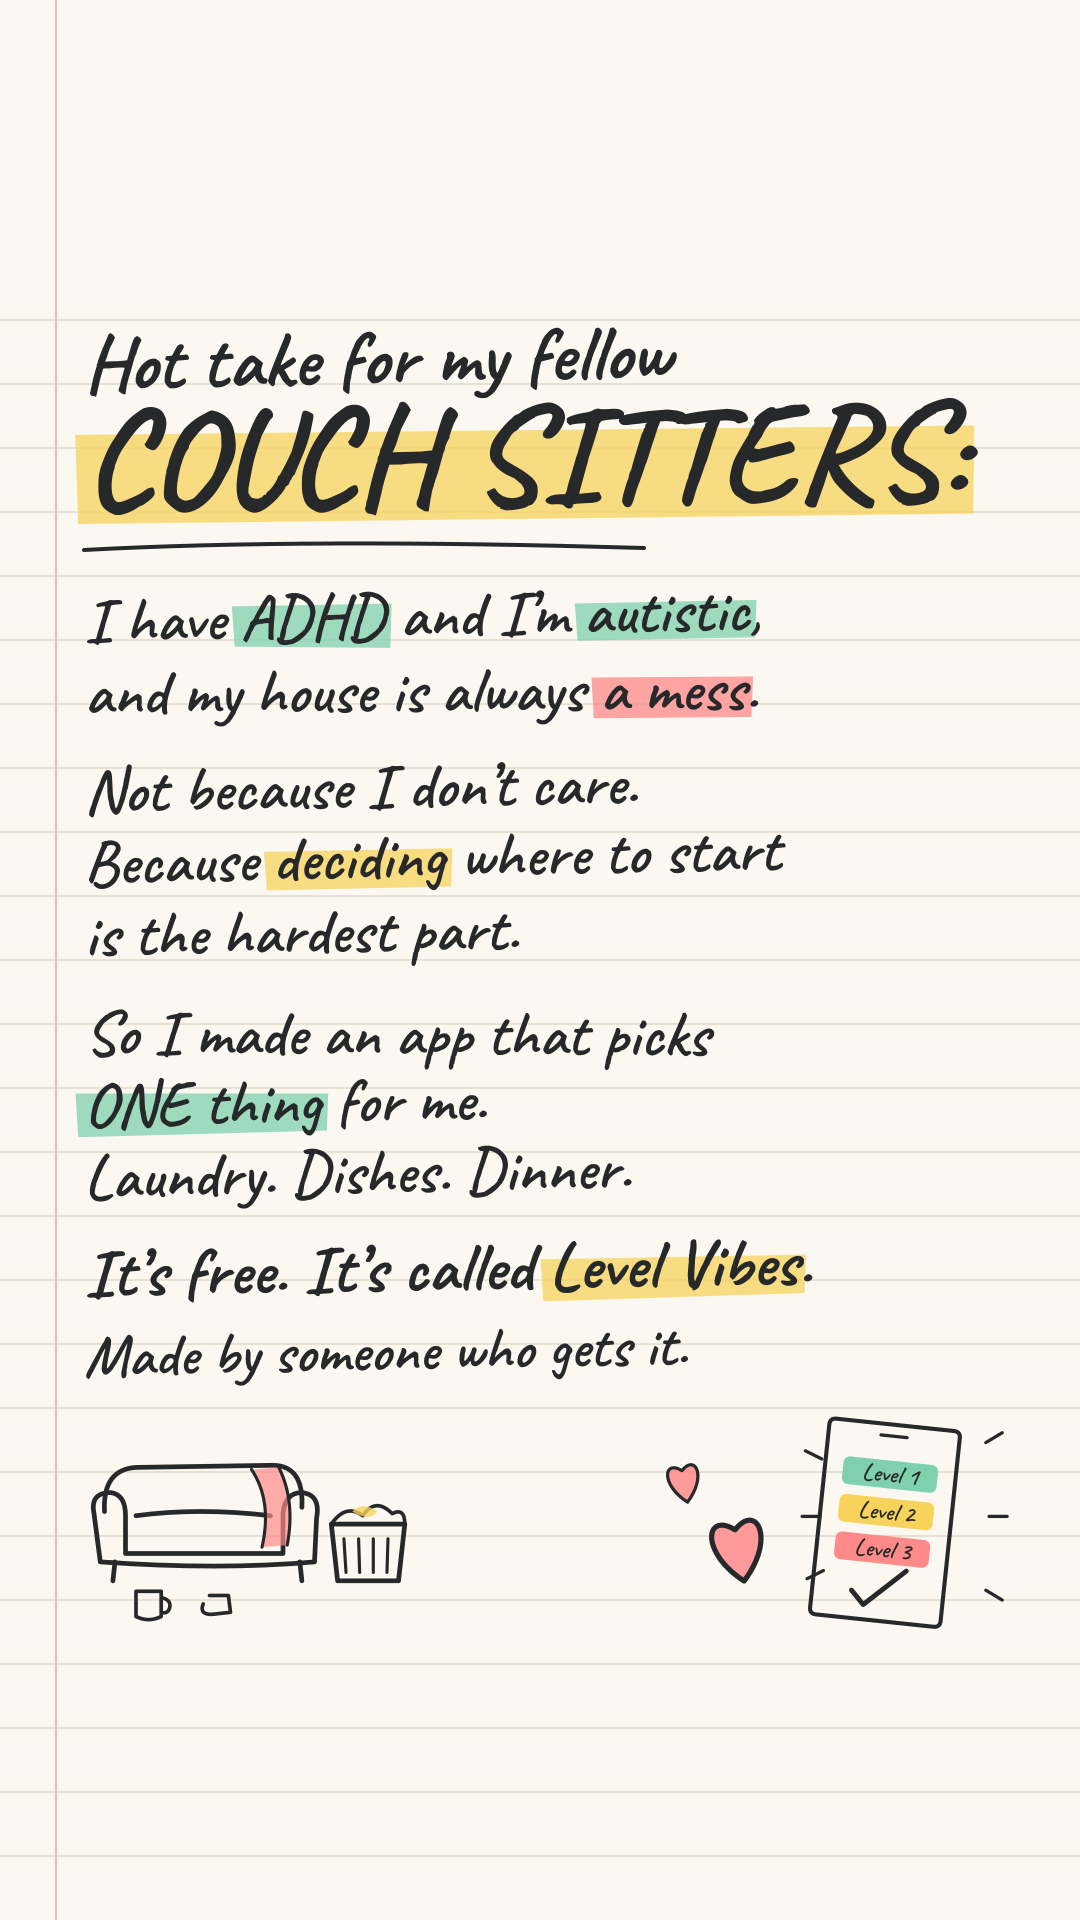
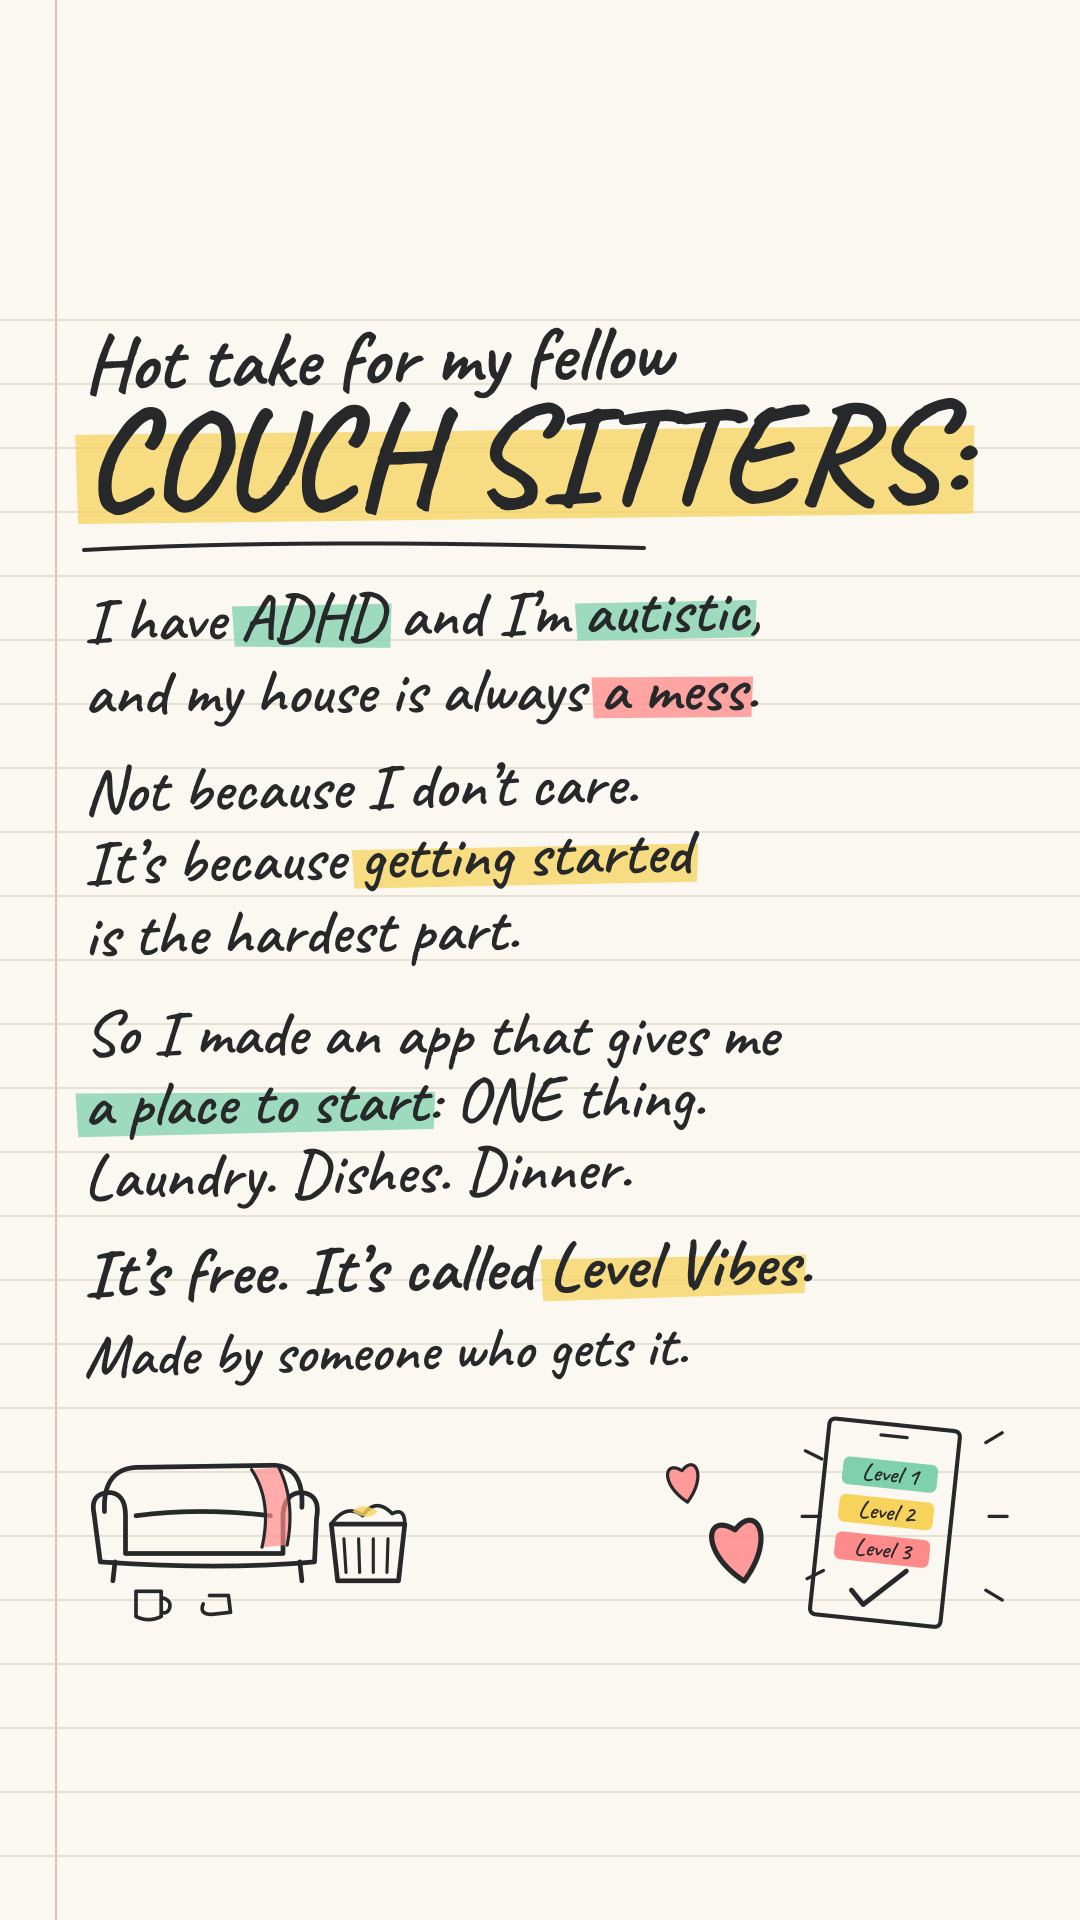
Notebook ad: getting started is the hard part (Devon's correction)

Changed region(s): [[0.0917, 0.5312, 0.7333, 0.5938], [0.0611, 0.4375, 0.7333, 0.4688]]

diff --git a/tools/catalog.js b/tools/catalog.js
@@ -186,10 +186,10 @@ function build() {
   // Ads (for Ads Manager on the laptop)
   const A = S + 'Ads/';
   add({ id: 'ad-e', title: 'Ad: Hot take for my fellow couch sitters', type: 'ad', files: [A + 'Ad image E - Notebook (feed 4x5).png', A + 'Ad image E - Notebook (9x16).png'],
-    caption: "Hot take: my house isn't messy because I don't care. It's messy because deciding where to start is the hardest part. I have ADHD and I'm autistic, so I made Level Vibes: tap the energy you've got, and it picks one thing. Laundry, dishes, dinner. Free on iPhone, iPad and Apple Watch.",
+    caption: "Hot take: my house isn't messy because I don't care. It's messy because getting started at all is the hardest part. I have ADHD and I'm autistic, so I made Level Vibes: tap the energy you've got, and it gives you a place to start, one thing. Laundry, dishes, dinner. Free on iPhone, iPad and Apple Watch.",
     headline: 'Made by someone who gets it', link: adLink(4), tags: 'ad, notebook, my story, adhd, autism, chores' });
   add({ id: 'img-couch-sitters', title: 'Hot take for my fellow couch sitters', type: 'image', files: [A + 'Ad image E - Notebook (feed 4x5).png', A + 'Ad image E - Notebook (9x16).png'],
-    caption: "Hot take for my fellow couch sitters 🛋 My house isn't messy because I don't care. Deciding where to start is the hardest part. So I made an app that picks ONE thing for me. Anyone else? 👇\n" + LINK,
+    caption: "Hot take for my fellow couch sitters 🛋 My house isn't messy because I don't care. Getting started at all is the hardest part. So I made an app that gives me a place to start: one thing. Anyone else? 👇\n" + LINK,
     hashtags: tidyTags(['#LevelVibes', '#adhd', '#actuallyautistic', '#decisionfatigue', '#neurodivergent']), tags: 'my story, adhd, autism, chores, notebook, relatable' });
   add({ id: 'ad-c', title: 'Ad: My story', type: 'ad', files: [A + 'Ad video C - My story (feed 4x5).mp4', A + 'Ad video C - My story (9x16).mp4', A + 'Ad image C1 - My story (feed 4x5).png', A + 'Ad image C1 - My story (9x16).png', A + 'Ad image C2 - My story with app (feed 4x5).png', A + 'Ad image C2 - My story with app (9x16).png'],
     caption: ADS.storyText, headline: 'Made by someone who gets it', link: adLink(2), tags: 'ad, my story, adhd, autism, best performer' });

diff --git a/tools/notebook-ad.js b/tools/notebook-ad.js
@@ -74,10 +74,10 @@ async function make(file, w, h, top) {
   T([['I have '], ['ADHD', 'g'], [' and I’m '], ['autistic', 'g'], [',']]);
   T([['and my house is always '], ['a mess', 'r'], ['.']], 64, SEMI, L + 26);
   T([['Not because I don’t care.']], 64, SEMI, L);
-  T([['Because '], ['deciding', 'y'], [' where to start']]);
+  T([['It’s because '], ['getting started', 'y']]);
   T([['is the hardest part.']], 64, SEMI, L + 26);
-  T([['So I made an app that picks']]);
-  T([['ONE thing', 'g'], [' for me.']]);
+  T([['So I made an app that gives me']]);
+  T([['a place to start', 'g'], [': ONE thing.']]);
   T([['Laundry. Dishes. Dinner.']], 64, SEMI, L + 26);
   T([['It’s free. It’s called '], ['Level Vibes', 'y'], ['.']], 68, BOLD, L + 8);
   T([['Made by someone who gets it.']], 60, SEMI);
